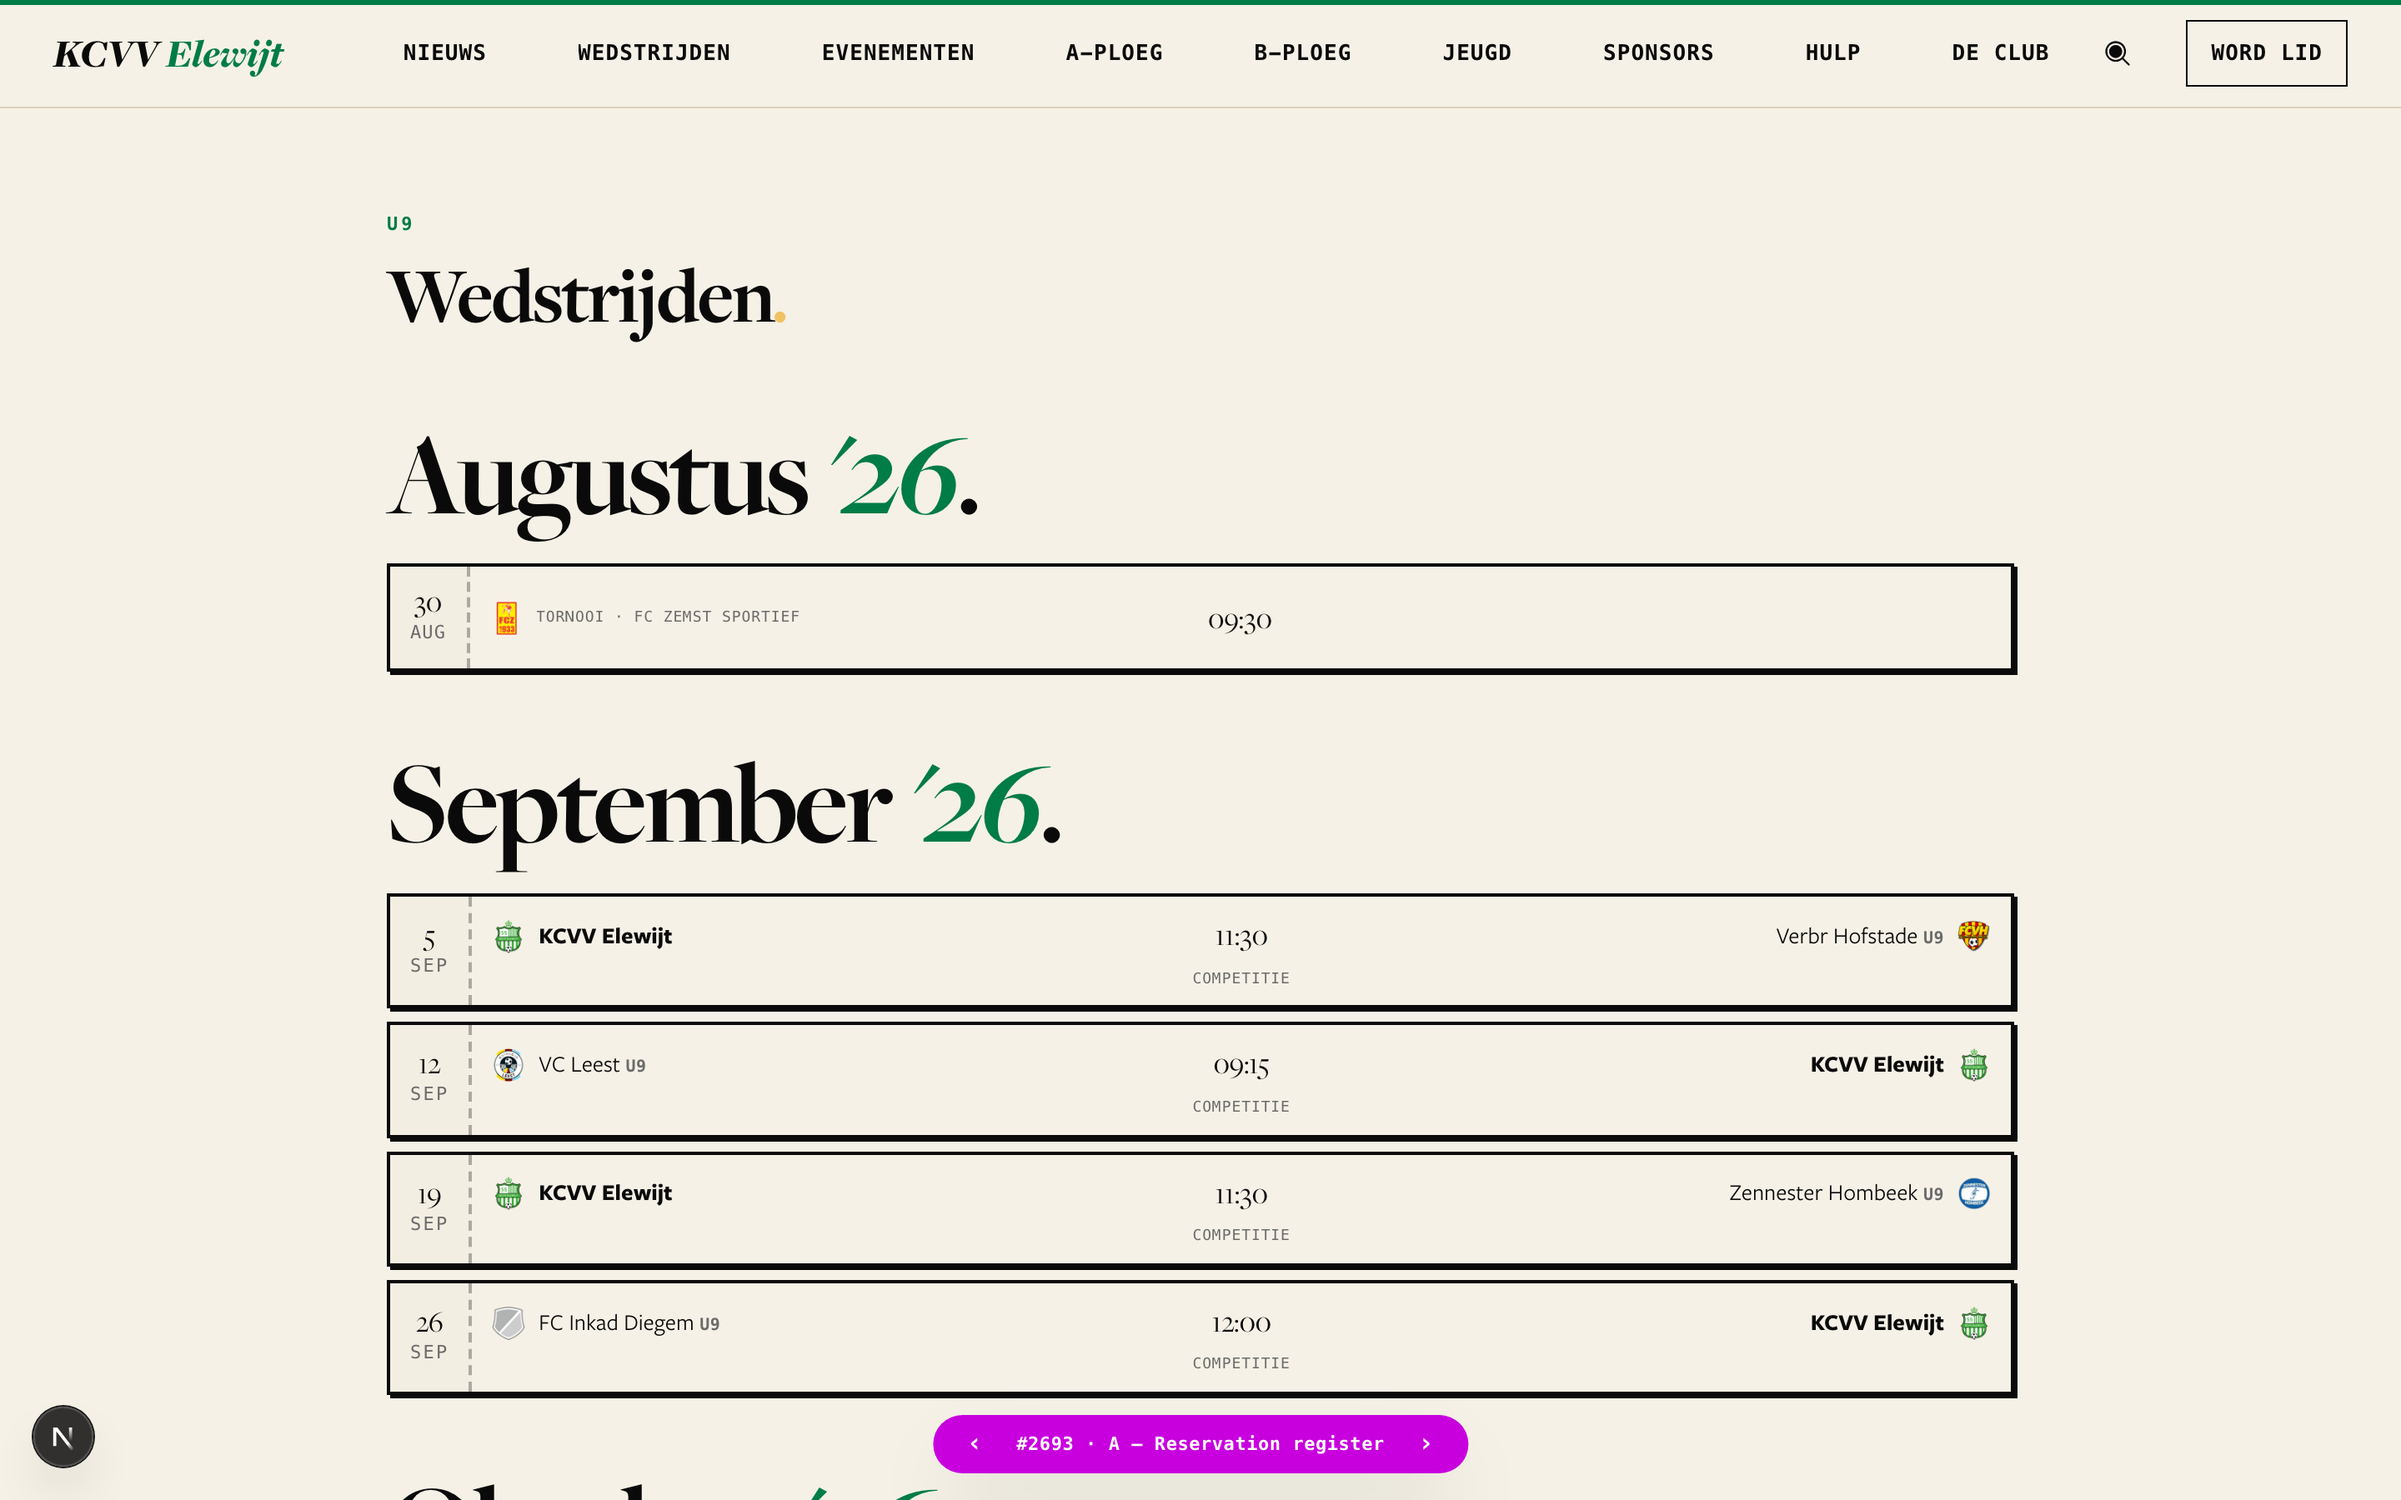
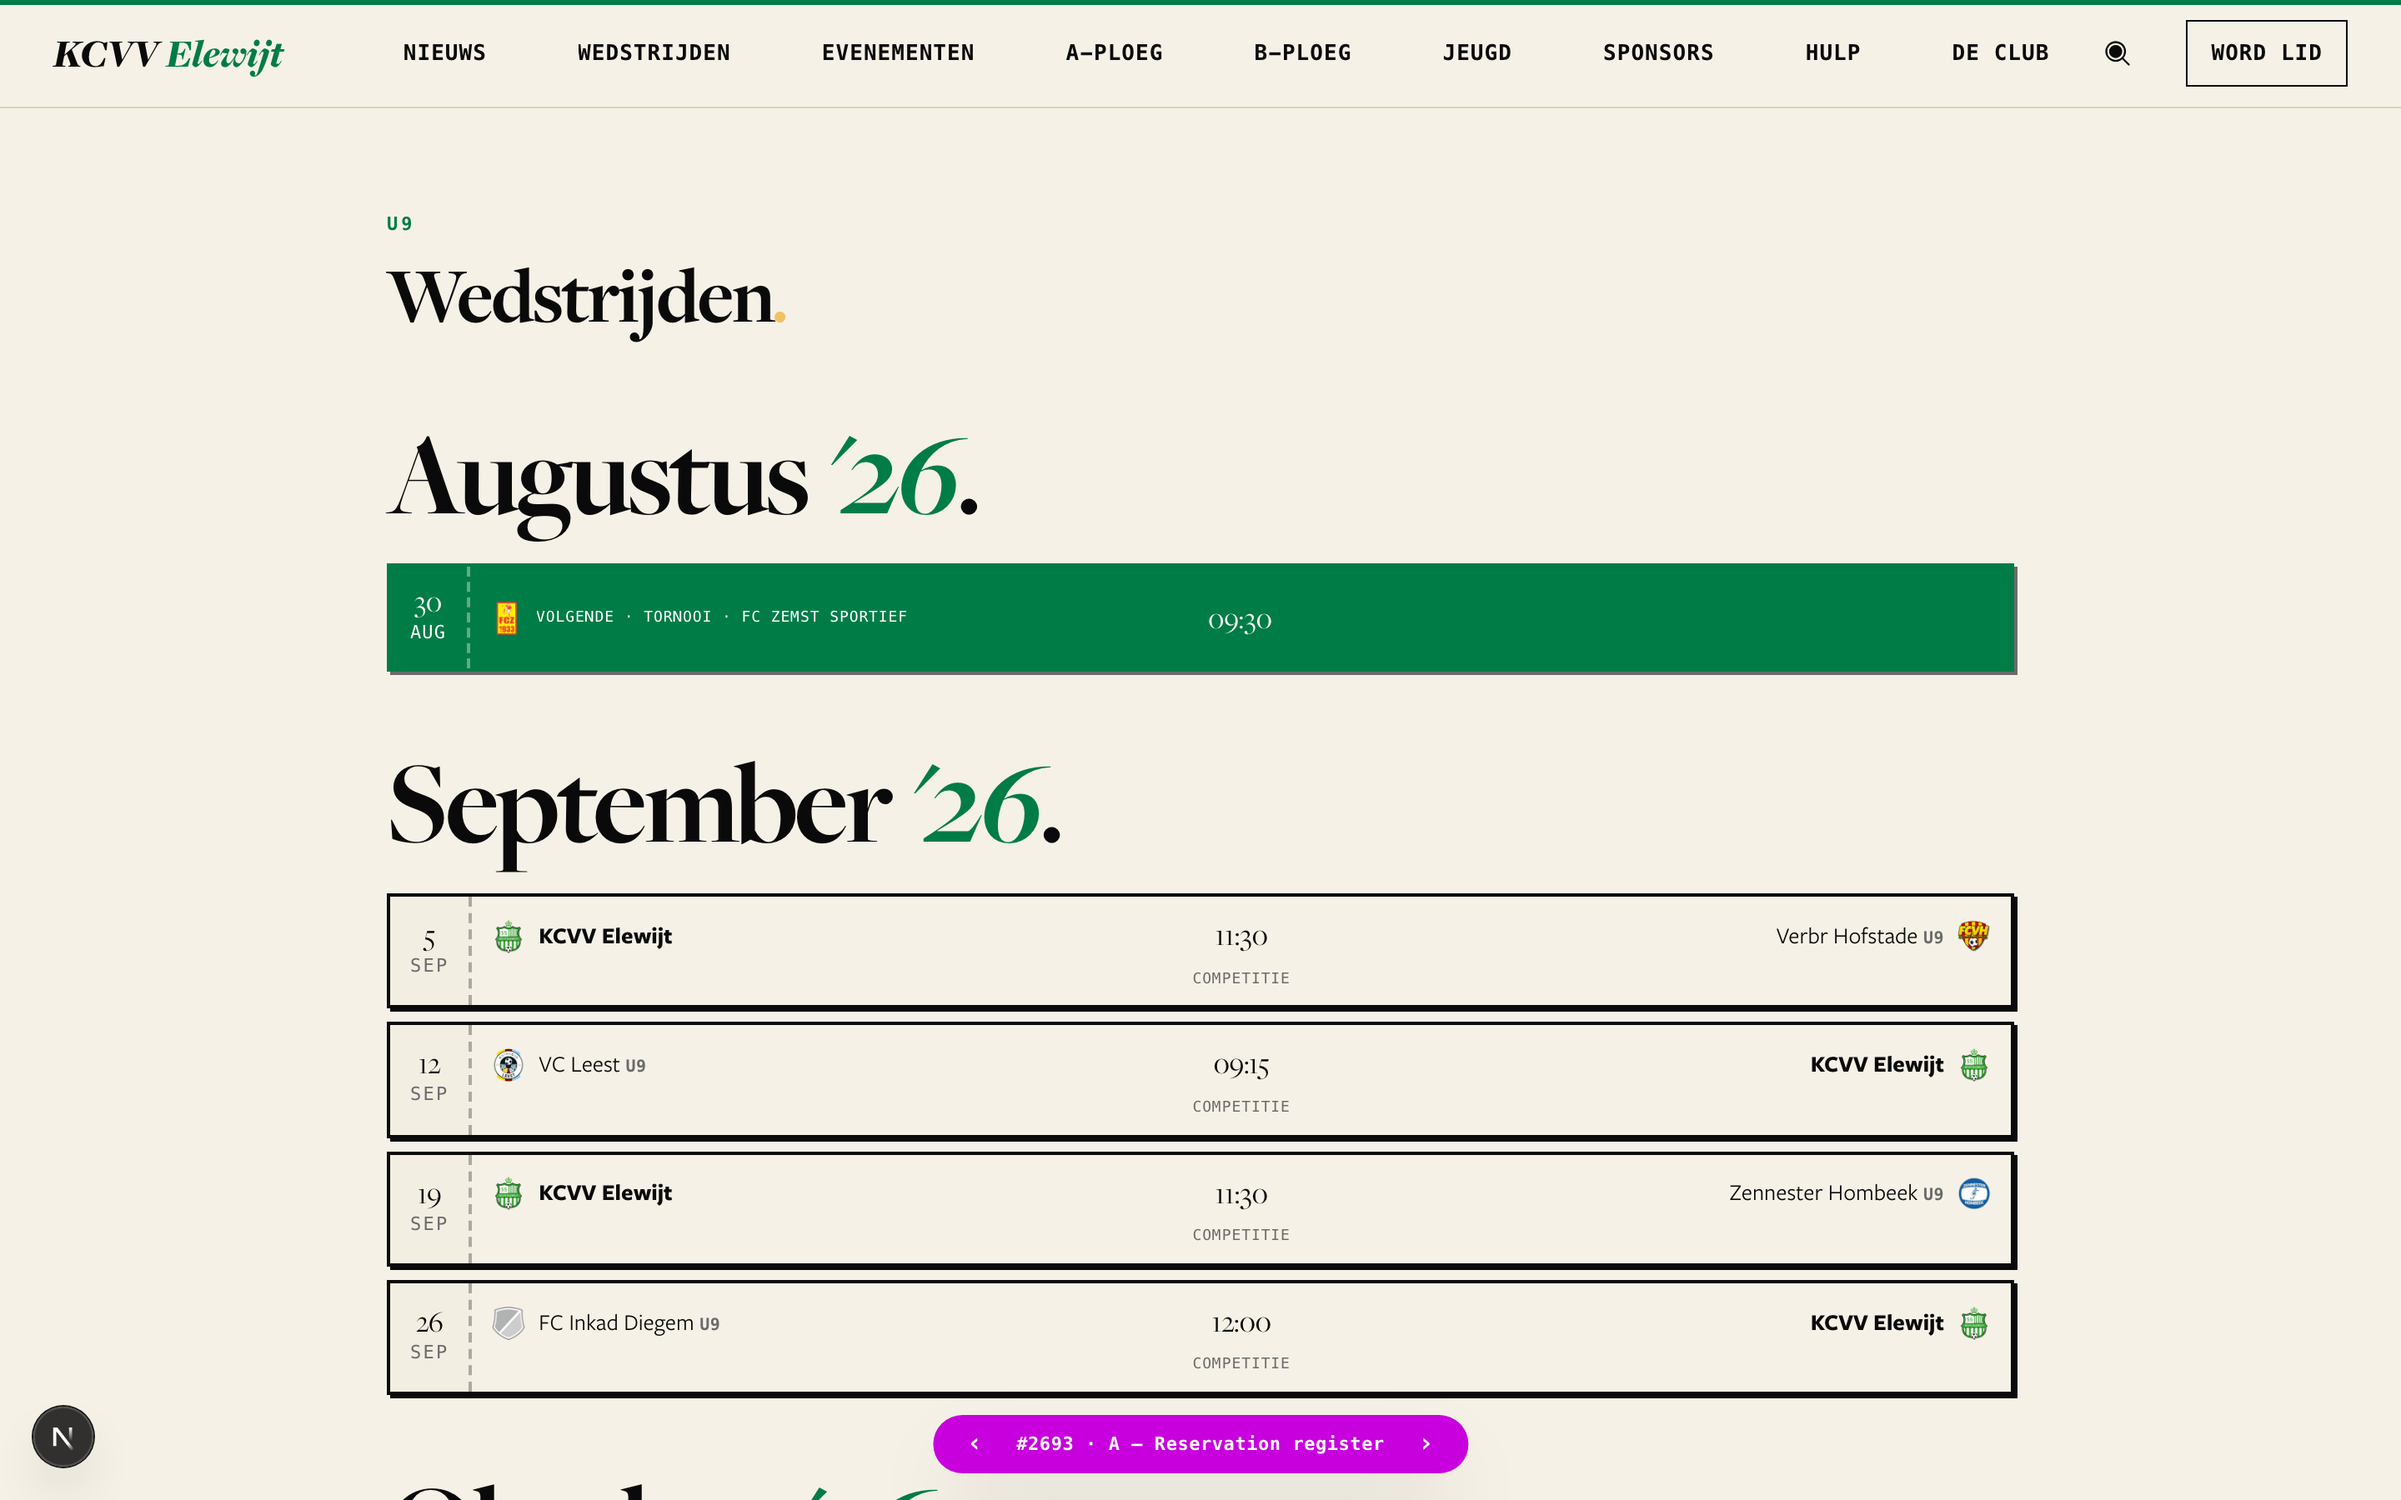
chore(matches): variant a wins and holds the green next-fixture card
Round 2 on the #2693 prototype, after owner feedback:

1. A tournament IS the next event, so it must be able to hold the
   "Eerstvolgende" slot. Variant A now honours `featured` — jersey-deep
   ground, white type, cream/40 dashed stub — and its subject carries the
   slot word, the way the real row does: VOLGENDE · TORNOOI · <club>.
2. Variant A is the pick. B and C stay in the tree as the losing record.

Also fixes a clipping bug the longer subject exposed: the placeholder row's
`w-full` content box has no `min-w-0`, so it overflows past the date stub,
`truncate` never engages, and the time is clipped off the right edge at
390px. #2632 never hit it because its subject is one short word.

Part of #2693

Changed region(s): [[0.1562, 0.3733, 0.8438, 0.4667]]

diff --git a/apps/web/src/components/team/TeamMatchesSection/prototype-2693/ProtoTournamentRow.tsx b/apps/web/src/components/team/TeamMatchesSection/prototype-2693/ProtoTournamentRow.tsx
@@ -13,10 +13,9 @@
  * an opponent, the home/away icon, the score slot, and the row's click-through.
  * They disagree about what replaces them.
  *
- * Deliberately NOT prototyped: the featured ("Eerstvolgende") jersey-deep
- * treatment. Every variant renders on cream so they are judged on equal
- * ground. Whether a tournament may ever hold the green next-fixture slot at
- * all is a separate question for the grilling.
+ * Round 2 (owner, 2026-08-18): A wins, and a tournament IS the next event —
+ * so it must be able to hold the green "Eerstvolgende" card. A now honours
+ * `featured`; B and C stay on cream, kept only as the losing record.
  */
 
 import { useSearchParams } from "next/navigation";
@@ -73,19 +72,51 @@ function monthShort(date: Date): string {
     .toLowerCase();
 }
 
-/** The list's card shell — sharp, 2px ink, hard offset shadow. No hover: none of these rows navigate. */
+/** The list's card shell — sharp, 2px, hard offset shadow. No hover: none of these rows navigate. */
 const CARD =
   "flex w-full items-stretch overflow-hidden border-2 border-ink bg-cream text-ink shadow-[2px_2px_0_0_var(--color-ink)]";
 
+/**
+ * The featured ("Eerstvolgende") shell, copied from the real row: jersey-deep
+ * ground, white type, and the ink-muted offset a cream shadow would lose
+ * against the cream page.
+ */
+const CARD_FEATURED =
+  "flex w-full items-stretch overflow-hidden border-2 border-jersey-deep bg-jersey-deep text-white shadow-[2px_2px_0_0_var(--color-ink-muted)]";
+
 const MONO = "font-mono tracking-wider uppercase";
 
-function DateStub({ date }: { date: Date }) {
+function DateStub({
+  date,
+  featured = false,
+}: {
+  date: Date;
+  featured?: boolean;
+}) {
   return (
-    <div className="border-ink/30 bg-cream-soft/30 flex shrink-0 flex-col items-center justify-center gap-0 border-r-2 border-dashed px-3 py-3">
-      <span className="font-display-big text-ink text-[18px] leading-none">
+    <div
+      className={cn(
+        "flex shrink-0 flex-col items-center justify-center gap-0 border-r-2 border-dashed px-3 py-3",
+        featured
+          ? "border-cream/40 bg-jersey-deep"
+          : "border-ink/30 bg-cream-soft/30",
+      )}
+    >
+      <span
+        className={cn(
+          "font-display-big text-[18px] leading-none",
+          featured ? "text-white" : "text-ink",
+        )}
+      >
         {dayNumber(date)}
       </span>
-      <span className={cn(MONO, "text-ink-muted text-[11px]")}>
+      <span
+        className={cn(
+          MONO,
+          "text-[11px]",
+          featured ? "text-white" : "text-ink-muted",
+        )}
+      >
         {monthShort(date)}
       </span>
     </div>
@@ -98,26 +129,43 @@ function DateStub({ date }: { date: Date }) {
  * one mono subject line, the time in the centred slot an ordinary row uses.
  * Tests: is the register #2632 already ships enough for this too?
  * ------------------------------------------------------------------ */
-export function VariantA({ match }: { match: ScheduleMatch }) {
+export function VariantA({
+  match,
+  featured = false,
+}: {
+  match: ScheduleMatch;
+  featured?: boolean;
+}) {
   const club = namedClub(match);
   const time = startTime(match);
-  const subject = `${match.competition} · ${club.name}`;
+  // The featured row carries the slot word, the same way the real row does —
+  // it is the only thing on the page that says what the green means.
+  const subject = [featured ? "Volgende" : null, match.competition, club.name]
+    .filter(Boolean)
+    .join(" · ");
 
   return (
     <article
       data-testid="proto-tournament-row"
+      data-featured={featured}
       aria-label={`${subject}, ${dayNumber(match.date)} ${monthShort(match.date)} om ${time}`}
-      className={CARD}
+      className={featured ? CARD_FEATURED : CARD}
     >
       <div aria-hidden="true" className="contents">
-        <DateStub date={match.date} />
-        <div className="flex w-full items-center gap-2 px-3 py-2">
+        <DateStub date={match.date} featured={featured} />
+        {/* `min-w-0` is NOT in the shipped placeholder row. Without it the
+            `w-full` content box overflows past the date stub, `truncate`
+            never engages, and the time is clipped off the right edge. #2632
+            never hit this because its subject is one short word; a subject
+            carrying the slot word AND the club name does. */}
+        <div className="flex w-full min-w-0 items-center gap-2 px-3 py-2">
           <div className="flex min-w-0 flex-1 items-center gap-2">
             <Crest name={club.name} logo={club.logo} />
             <span
               className={cn(
                 MONO,
-                "text-ink-muted min-w-0 flex-1 truncate text-[9px]",
+                "min-w-0 flex-1 truncate text-[9px]",
+                featured ? "text-white" : "text-ink-muted",
               )}
             >
               {subject}
@@ -215,11 +263,13 @@ export function VariantC({ match }: { match: ScheduleMatch }) {
 export function ProtoTournamentRow({
   match,
   variant,
+  featured = false,
 }: {
   match: ScheduleMatch;
   variant: ProtoVariant;
+  featured?: boolean;
 }) {
   if (variant === "B") return <VariantB match={match} />;
   if (variant === "C") return <VariantC match={match} />;
-  return <VariantA match={match} />;
+  return <VariantA match={match} featured={featured} />;
 }

diff --git a/apps/web/src/components/team/TeamMatchesSection/TeamAgendaRow.tsx b/apps/web/src/components/team/TeamMatchesSection/TeamAgendaRow.tsx
@@ -235,7 +235,13 @@ export function TeamAgendaRow({
   // PROTOTYPE — #2693. Throwaway; remove with the branch.
   const protoVariant = useProtoVariant();
   if (protoVariant !== "off" && isProtoTournament(match)) {
-    return <ProtoTournamentRow match={match} variant={protoVariant} />;
+    return (
+      <ProtoTournamentRow
+        match={match}
+        variant={protoVariant}
+        featured={featured}
+      />
+    );
   }
 
   // Prefer match.is_home (provided by BFF); fall back to comparing kcvvTeamId
